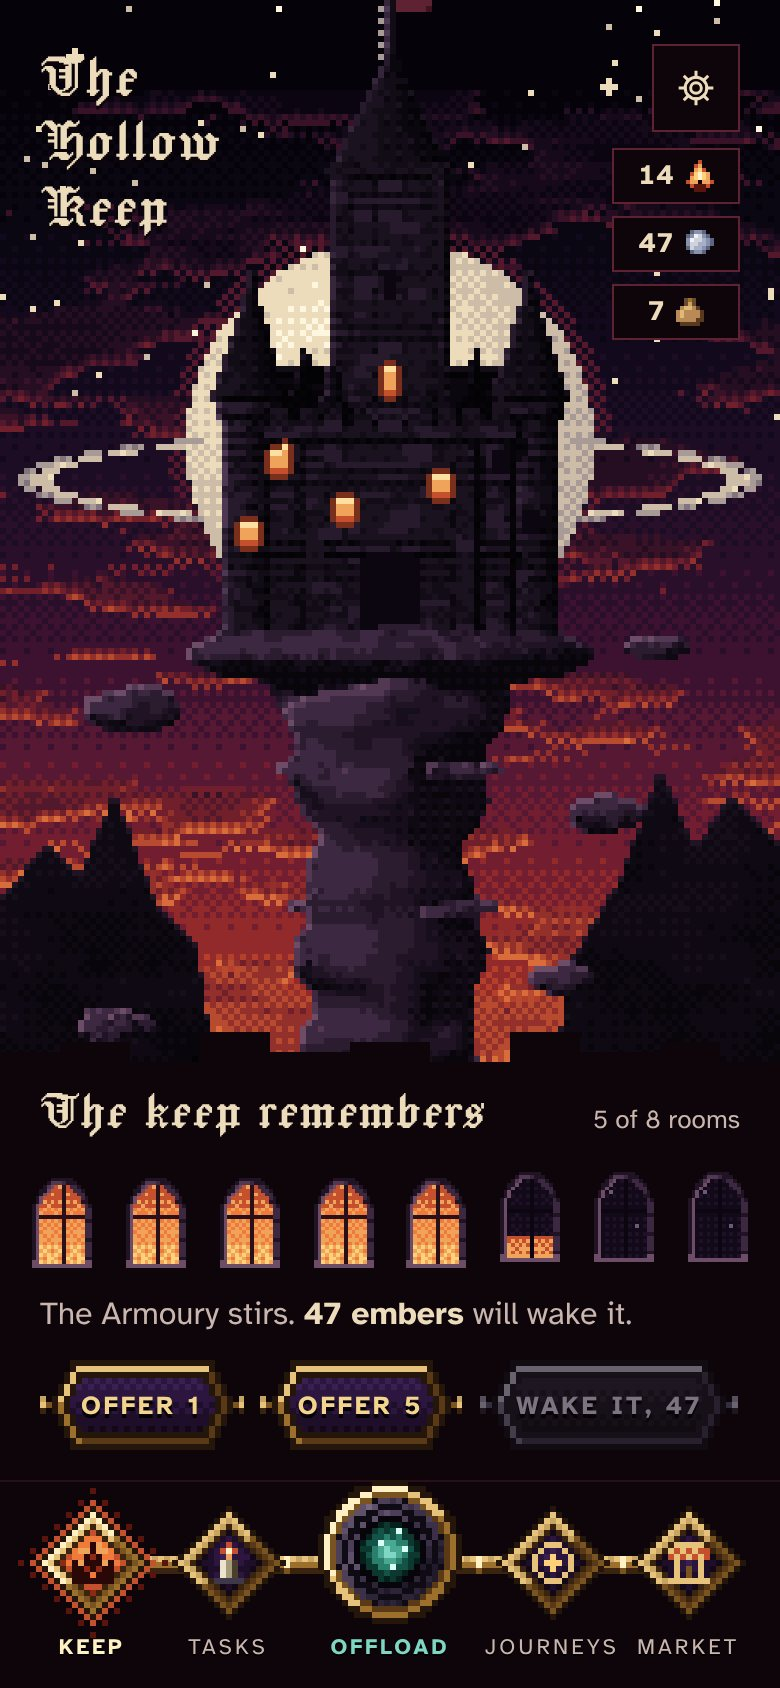
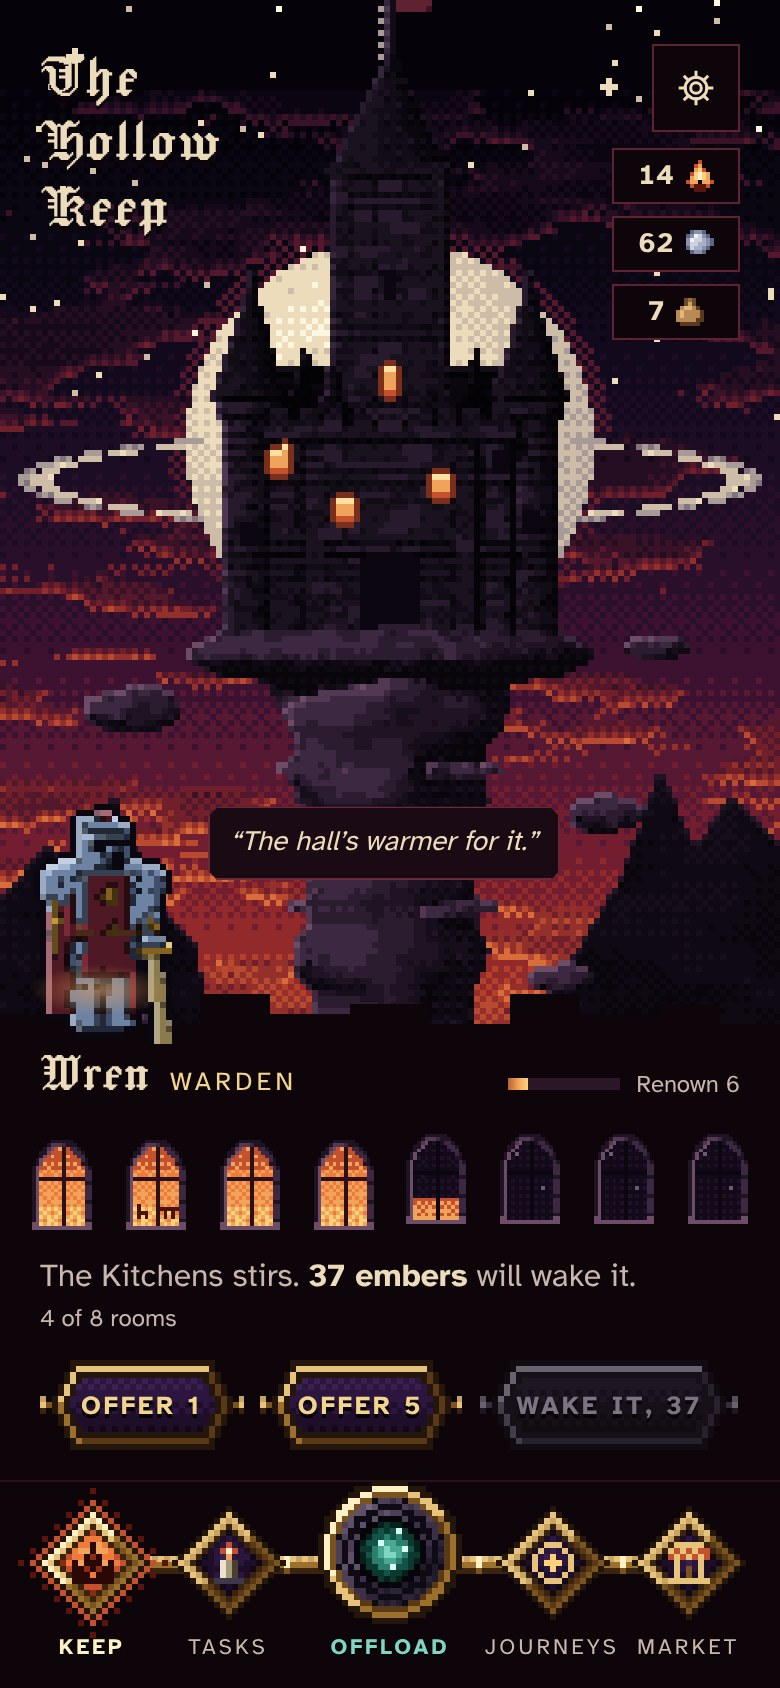
The four callings as turning heroes; new screenshots of Home, the Market and Journeys
Claude-Session: https://claude.ai/code/session_01Kpq7cYrh9tXh51C4UXSmH6

diff --git a/index.html b/index.html
@@ -98,7 +98,10 @@ ul.marks li::before{content:"";position:absolute;left:3px;top:.55em;width:9px;he
   box-shadow:inset 0 0 0 1px #4a2a44;display:grid;gap:8px;justify-items:center;transition:transform .5s cubic-bezier(.2,.7,.2,1)}
 .hero-card:hover{transform:translateY(-6px)}
 .hero-card:hover,.hero-card.lit{background:radial-gradient(ellipse 80% 70% at 50% 38%,#4a1c1a 0%,#24101a 60%,#160a14 100%);box-shadow:inset 0 0 0 1.5px #c8a462}
-.hero-card img{width:min(100%,168px);height:auto;aspect-ratio:24/30;image-rendering:pixelated;filter:drop-shadow(0 12px 10px rgba(0,0,0,.6))}
+.hero-card .turn{position:relative;width:calc(var(--w) * 3px);height:calc(var(--h) * 3px);margin-top:calc((78 - var(--h)) * 3px);overflow:hidden;filter:drop-shadow(0 12px 10px rgba(0,0,0,.6))}
+.hero-card .turn img{position:absolute;left:0;top:0;width:calc(var(--w) * 48px);height:calc(var(--h) * 3px);max-width:none;image-rendering:pixelated;animation:turn 9.6s steps(16) infinite}
+.hero-card .turn img.still{display:none;width:100%;animation:none}
+@keyframes turn{to{transform:translateX(-100%)}}
 .hero-card b{font:400 2.2rem/1 var(--f-display);color:var(--bone)}
 .hero-card span{color:var(--muted);font-size:.98rem;max-width:22ch}
 
@@ -123,6 +126,7 @@ ul.marks li::before{content:"";position:absolute;left:3px;top:.55em;width:9px;he
 .js .phone.reveal{translate:0 60px}
 @media (prefers-reduced-motion:reduce){
   .js .reveal{opacity:1;translate:none;transition:none}.cue i{animation:none}.hero-card{transition:none}
+  .hero-card .turn img{display:none}.hero-card .turn img.still{display:block}
   #world{transition:none}
 }
 
@@ -213,7 +217,7 @@ ul.marks li::before{content:"";position:absolute;left:3px;top:.55em;width:9px;he
         <h2 id="keep-h">Embers wake the keep.</h2>
         <p class="lead">Finished tasks give you embers. Offer them to the keep and its rooms wake one window at a time. Watch the keep behind these words: it wakes as you read.</p>
       </div>
-      <div class="phone reveal" style="--tilt:2deg"><img src="img/shots/home.jpg" alt="Home: the keep on its stone spire under a ringed moon, five windows lit, with Offer buttons below." loading="lazy" width="780" height="1688"></div>
+      <div class="phone reveal" style="--tilt:2deg"><img src="img/shots/home.jpg" alt="Home: the keep on its stone spire under a ringed moon, four windows lit, the knight standing at its foot with their name, title and Renown." loading="lazy" width="780" height="1688"></div>
     </div></div>
   </section>
 </main>
@@ -240,13 +244,13 @@ ul.marks li::before{content:"";position:absolute;left:3px;top:.55em;width:9px;he
   <div class="head"><div class="veil reveal">
     <p class="eyebrow">Your hero</p>
     <h2 id="who-h">Who wakes the keep?</h2>
-    <p class="lead">Choose who you are and give them a name. They carry your finished tasks out into the world, and wear everything you earn.</p>
+    <p class="lead">Choose a calling, then what hides your face, your colours and your first kit, and give them a name. They stand at the foot of the keep, carry your finished tasks out into the night, and wear everything you earn.</p>
   </div></div>
   <div class="heroes">
-    <figure class="hero-card reveal"><img src="img/art/hero-knight.svg" alt="" width="168" height="210"><b>Knight</b><span>Steady and sworn. Keeps the old vows of the keep.</span></figure>
-    <figure class="hero-card reveal"><img src="img/art/hero-cleric.svg" alt="" width="168" height="210"><b>Cleric</b><span>Carries a lantern for anyone tired or lost.</span></figure>
-    <figure class="hero-card reveal"><img src="img/art/hero-bandit.svg" alt="" width="168" height="210"><b>Bandit</b><span>Quiet feet, quick hands, a soft spot for strays.</span></figure>
-    <figure class="hero-card reveal"><img src="img/art/hero-barbarian.svg" alt="" width="168" height="210"><b>Barbarian</b><span>Big, warm and loud. Carries the heavy things.</span></figure>
+    <figure class="hero-card reveal"><span class="turn" style="--w:47;--h:71" role="img" aria-label="The knight, turning"><img src="img/art/hero-knight-turn.png" alt="" width="2256" height="213"><img class="still" src="img/art/hero-knight.png" alt="" width="141" height="213"></span><b>Knight</b><span>Sworn to the keep, long ago. Mail under plate, a great helm, a sword and a shield.</span></figure>
+    <figure class="hero-card reveal"><span class="turn" style="--w:47;--h:71" role="img" aria-label="The cleric, turning"><img src="img/art/hero-cleric-turn.png" alt="" width="2256" height="213"><img class="still" src="img/art/hero-cleric.png" alt="" width="141" height="213"></span><b>Cleric</b><span>Keeps the chapel quiet. Long robes, a deep hood, a sun staff and the book of hours.</span></figure>
+    <figure class="hero-card reveal"><span class="turn" style="--w:47;--h:71" role="img" aria-label="The bandit, turning"><img src="img/art/hero-bandit-turn.png" alt="" width="2256" height="213"><img class="still" src="img/art/hero-bandit.png" alt="" width="141" height="213"></span><b>Bandit</b><span>Knows every door nobody locks. A hood and a scarf, light leathers, a blade in each hand.</span></figure>
+    <figure class="hero-card reveal"><span class="turn" style="--w:47;--h:78" role="img" aria-label="The barbarian, turning"><img src="img/art/hero-barbarian-turn.png" alt="" width="2256" height="234"><img class="still" src="img/art/hero-barbarian.png" alt="" width="141" height="234"></span><b>Barbarian</b><span>Down from the far crags. Big and bare-armed, a horned helm, an axe in each hand.</span></figure>
   </div>
 </section>
 
@@ -257,11 +261,11 @@ ul.marks li::before{content:"";position:absolute;left:3px;top:.55em;width:9px;he
       <p class="eyebrow">Journeys and the Market</p>
       <h2 id="journeys-h">Send them out. Bring back silver.</h2>
       <p class="lead">Finished tasks pack provisions. Spend them to send your hero across the star chart, to the Hush Garden, the Drowned Mill and the Glass Ruins. They come home with silver and sometimes a small found thing.</p>
-      <ul class="marks"><li>Furnish your rooms at the Market</li><li>Armour, weapons and trinkets that make journeys shorter and richer</li></ul>
+      <ul class="marks"><li>Furnish your rooms at the Market</li><li>Each calling's own armour and weapons, worn on your hero, that make journeys shorter and richer</li></ul>
     </div>
     <div class="phones">
       <div class="phone reveal" style="--tilt:2deg"><img src="img/shots/journeys.jpg" alt="Journeys: a star chart with the keep at the centre and three places on its rings." loading="lazy" width="780" height="1688"></div>
-      <div class="phone reveal"><img src="img/shots/market.jpg" alt="The Market: a pixel knight in a moth-wing cloak with a lantern blade, and armour to buy with silver." loading="lazy" width="780" height="1688"></div>
+      <div class="phone reveal"><img src="img/shots/market.jpg" alt="The Market: the bandit in black leathers with twin shortswords, trying on armour before buying it with silver." loading="lazy" width="780" height="1688"></div>
     </div>
   </div></div>
 </section>

diff --git a/README.md b/README.md
@@ -11,7 +11,7 @@ The website for Taskbound: a landing page, the privacy policy and the web versio
 | `privacy.html` | Privacy policy (needed for the Play listing). |
 | `app/` | The web version of Taskbound, copied from `offloadapps/taskbound` `dist/web`. |
 | `img/shots/` | Phone screenshots of the app (390 x 844 at 2x). |
-| `img/art/` | The four heroes, drawn by the app's `ART.hero`. |
+| `img/art/` | The four callings: a 16-frame turn (`hero-<calling>-turn.png`) and a still, drawn by the app's own `ART.heroPic` from `app/hero-splat.js` (taskbound `art/hero_splat_scene.js`). |
 | `fonts/` | Jacquard 24 (OFL), subset to Latin, for titles. |
 
 ## Updating the web version
